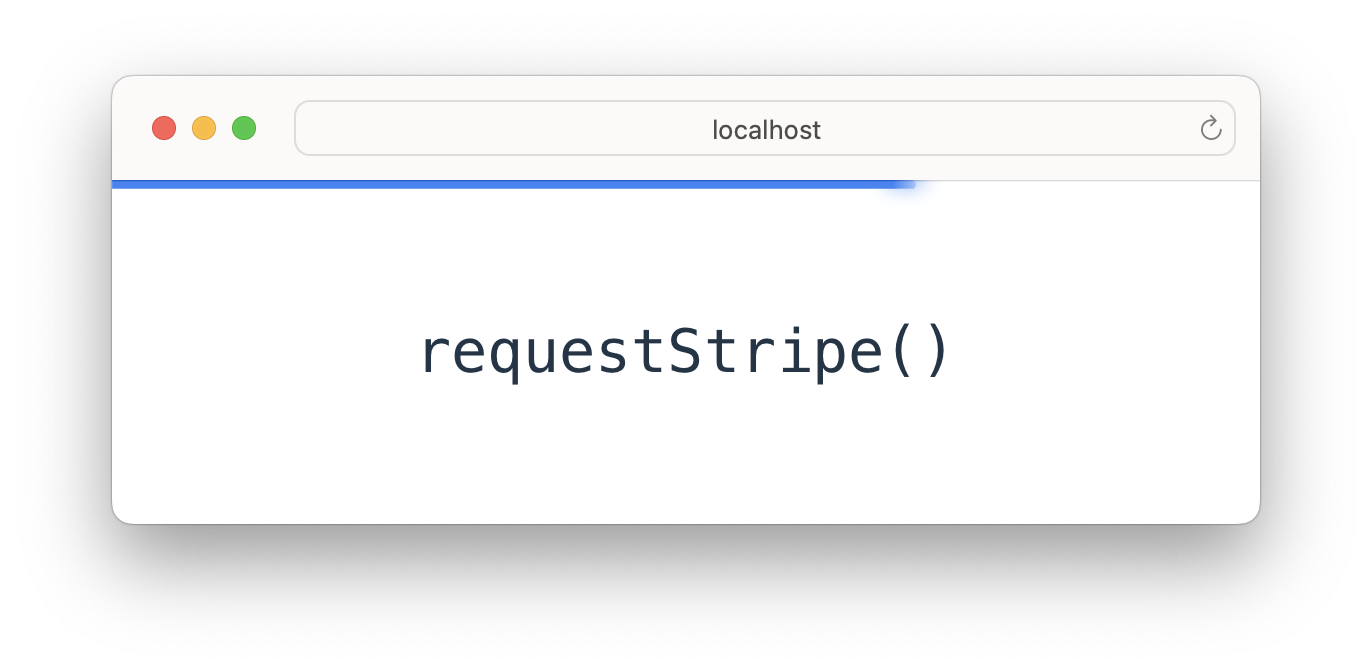
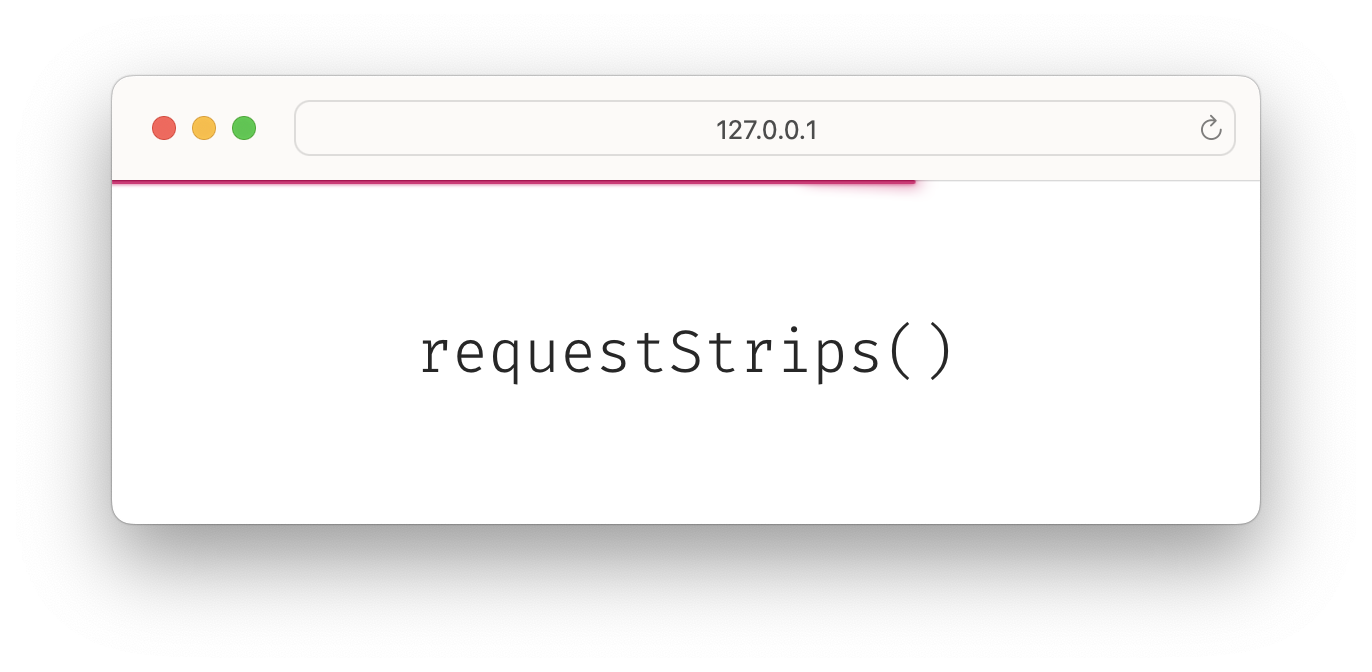
update styles, header and demo

Changed region(s): [[0.3061, 0.4688, 0.7041, 0.5625], [0.0612, 0.25, 0.6735, 0.2812], [0.5204, 0.1562, 0.6122, 0.2188]]

diff --git a/example/src/style.css b/example/src/style.css
@@ -1,12 +1,8 @@
 :root {
-  font-family: Inter, Avenir, Helvetica, Arial, sans-serif;
+  font-family: 'Fira Code', monospace, serif;
   font-size: 16px;
-  line-height: 24px;
-  font-weight: 400;
-
-  color-scheme: light dark;
-  color: rgba(255, 255, 255, 0.87);
-  background-color: #242424;
+  line-height: 1;
+  font-weight: 300;
 
   font-synthesis: none;
   text-rendering: optimizeLegibility;
@@ -15,83 +11,31 @@
   -webkit-text-size-adjust: 100%;
 }
 
-a {
-  font-weight: 500;
-  color: #646cff;
-  text-decoration: inherit;
-}
-a:hover {
-  color: #535bf2;
-}
-
 body {
   margin: 0;
   display: flex;
   place-items: center;
-  min-width: 320px;
-  min-height: 100vh;
-}
-
-h1 {
-  font-size: 3.2em;
-  line-height: 1.1;
-}
-
-#app {
-  max-width: 1280px;
-  margin: 0 auto;
-  padding: 2rem;
-  text-align: center;
-}
-
-.logo {
-  height: 6em;
-  padding: 1.5em;
-  will-change: filter;
-}
-.logo:hover {
-  filter: drop-shadow(0 0 2em #646cffaa);
-}
-.logo.vanilla:hover {
-  filter: drop-shadow(0 0 2em #f7df1eaa);
-}
-
-.card {
-  padding: 2em;
-}
-
-.read-the-docs {
-  color: #888;
+  justify-content: center;
+  height: 100vh;
 }
 
 button {
-  border-radius: 8px;
+  border-radius: 0.5em;
   border: 1px solid transparent;
   padding: 0.6em 1.2em;
-  font-size: 1em;
-  font-weight: 500;
+  font: inherit;
+  font-size: 30px;
+  font-weight: 300;
   font-family: inherit;
-  background-color: #1a1a1a;
+  background-color: transparent;
   cursor: pointer;
   transition: border-color 0.25s;
 }
+
 button:hover {
   border-color: #646cff;
 }
 button:focus,
 button:focus-visible {
   outline: 4px auto -webkit-focus-ring-color;
-}
-
-@media (prefers-color-scheme: light) {
-  :root {
-    color: #213547;
-    background-color: #ffffff;
-  }
-  a:hover {
-    color: #747bff;
-  }
-  button {
-    background-color: #f9f9f9;
-  }
 }

diff --git a/src/request-stripe.css b/src/request-stripe.css
@@ -12,6 +12,7 @@
   background-color: currentColor;
   box-shadow: 0px 0px 2px currentColor;
   transform: translate3d(-100%, 0, 0);
+  opacity: 0;
   will-change: transform;
 }
 
@@ -23,14 +24,15 @@
   height: 100%;
   width: 10%;
   border-radius: 0.5em;
-  box-shadow: 2px -1px 10px 1px currentColor;
+  box-shadow: 2px -1px 8px 1px currentColor;
   transform: rotate(3deg);
   transform-origin: right;
 }
 
 .request-stripe[data-state='process'] {
-  transition: transform 60s cubic-bezier(0, 1, 0, 1);
+  transition: transform 60s cubic-bezier(0, 1, 0, 1), opacity 0.1s ease-out;
   transform: translate3d(-2%, 0, 0);
+  opacity: 1;
 }
 
 .request-stripe[data-state='finish'] {

diff --git a/example/index.html b/example/index.html
@@ -5,6 +5,10 @@
     <link rel="icon" type="image/svg+xml" href="/vite.svg" />
     <meta name="viewport" content="width=device-width, initial-scale=1.0" />
     <title>Vite + TS</title>
+    <link
+      href="https://fonts.googleapis.com/css2?family=Fira+Code:wght@300;400&display=swap"
+      rel="stylesheet"
+    />
   </head>
   <body>
     <div id="app"></div>

diff --git a/example/src/main.ts b/example/src/main.ts
@@ -2,7 +2,7 @@ import './style.css';
 import { requestStripe } from 'request-stripe';
 
 document.querySelector<HTMLDivElement>('#app')!.innerHTML = `
-  <button id="run" type="button">Click me</button>
+  <button id="run" type="button">requestStrips()</button>
 `;
 
 document
